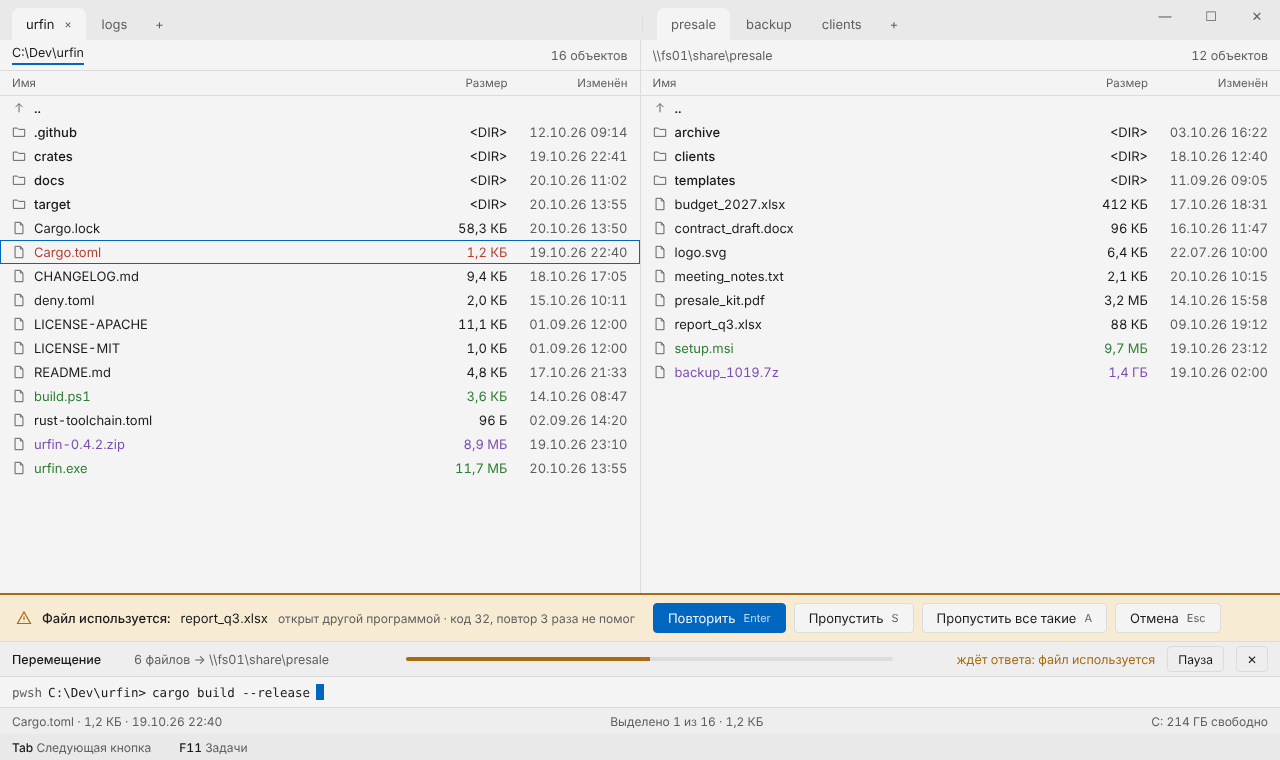
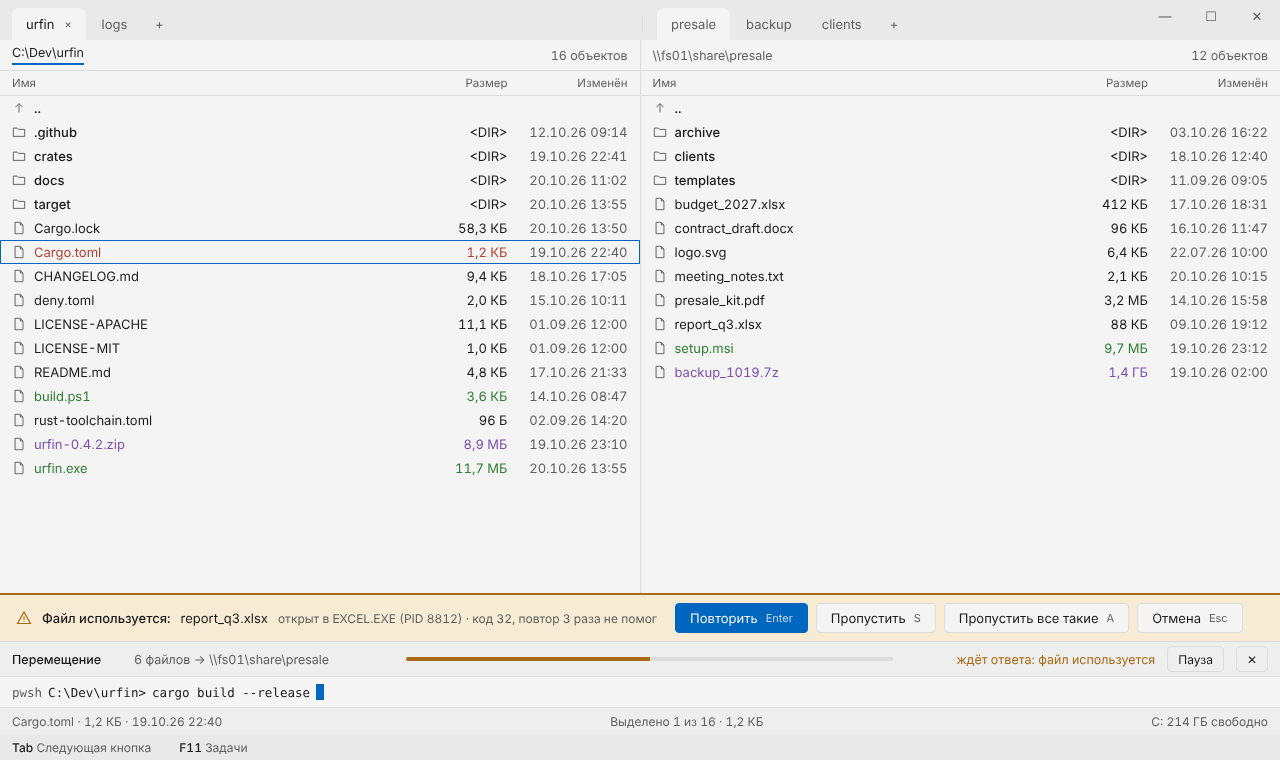
docs: decisions 66-69, ADR-0020 org policies; opbusy shows owning process
Claude-Session: https://claude.ai/code/session_013ZpcYnbJMYkHW4aMDDmFTq

Changed region(s): [[0.25, 0.7868, 0.9688, 0.8474]]

diff --git a/docs/design/window.dc.html b/docs/design/window.dc.html
@@ -1999,7 +1999,7 @@ const erVals = erOn || erToastOn ? {
 showJobs: erOn, showToast: false, erOn, erToastOn,
 erTitle: erBusy ? "Файл используется:" : "Нет доступа:",
 erPath: erBusy ? "report_q3.xlsx" : "C:\\Windows\\System32\\config\\SAM",
-erWhy: erBusy ? "открыт другой программой · код 32, повтор 3 раза не помог" : "отказано в доступе · код 5",
+erWhy: erBusy ? "открыт в EXCEL.EXE (PID 8812) · код 32, повтор 3 раза не помог" : "отказано в доступе · код 5",
 erAll: true,
 erLine: "position: absolute; left: 0; right: 0; bottom: 0; z-index: 3; height: 48px; box-sizing: border-box; padding: 0 16px; display: flex; align-items: center; gap: 10px; background: " + t.wbg + "; border-top: 2px solid " + t.rem + "; --bg: " + t.wbg + "; --fl: color-mix(in srgb, " + t.rem + " 22%, " + t.wbg + "); animation: urfinFlash 1.4s ease-in-out 0.3s 1",
 jobs: erOn ? [erBusy

diff --git a/docs/design/DESIGN.md b/docs/design/DESIGN.md
@@ -96,13 +96,13 @@
 | `screen-whatsnew.png` | После обновления (локальное сравнение версий, без сети): тот же баннер — «Урфин обновлён до X · с Y · N изменений», «Что нового» (раздел справки) / Закрыть; появление — та же вспышка | D-02 / S9 |
 | `screen-settings-viewer.png`, `screen-settings-terminal.png` | Разделы настроек «Просмотр» (`[viewer]`, S7 §8) и «Терминал» (`[term]`, S6 §8, №52) — общий `form`: подпись 240, контрол, пояснение справа; только ключи из спек | D-08 |
 | `screen-settings-ops.png` | «Операции» (S5 §6.2): удаление, копирование и перенос (конфликт, папка есть, ошибки, проверка, облако), параллельность по устройствам, надёжность и журналы; параметр, заданный политикой, — замок, контрол недоступен, «Задано политикой организации» | D-08 / S5 |
-| `screen-settings-policies.png` | «Политики» — только чтение: пояснение сверху, таблица Параметр / Значение / Источник (`HKLM\Software\Policies\Aahz\Urfin`), заданные — с замком, незаданные — «не задано» `secondary`. В спеке сейчас только `Theme`/`ThemeLocked`; остальные политики — предложение (ADR) | D-08 |
-| `screen-operror.png`, `screen-opbusy.png` | Ошибка операции (S5 §2.2): строка-предупреждение (фон `warning_bg`, черта `context_remote`, вспышка) — «Нет доступа: путь» / «Файл используется: имя» + причина и код `secondary`; Повторить (Enter) / Пропустить (S) / Пропустить все такие (A) / Отмена — сразу за текстом; job-бар «ждёт ответа»; повышения прав в операциях нет | D-04 / S5 |
+| `screen-settings-policies.png` | «Политики» — только чтение: пояснение сверху, таблица Параметр / Значение / Источник (`HKLM\Software\Policies\Aahz\Urfin`), заданные — с замком, незаданные — «не задано» `secondary`. набор политик — ADR-0020, №66 | D-08 |
+| `screen-operror.png`, `screen-opbusy.png` | Ошибка операции (S5 §2.2): строка-предупреждение (фон `warning_bg`, черта `context_remote`, вспышка) — «Нет доступа: путь» / «Файл используется: имя» + причина и код `secondary` (для занятого файла — процесс-владелец, №69); Повторить (Enter) / Пропустить (S) / Пропустить все такие (A) / Отмена — сразу за текстом; job-бар «ждёт ответа»; повышения прав в операциях нет | D-04 / S5 |
 | `screen-toasterror.png` | Пассивный тост об ошибке (без кнопок): значок и заголовок `modified`, «N из M не скопированы · подробности — F11»; свёрнутый job-бар с отметкой ошибки | D-02 / S5 |
-| `screen-tabsmany.png` | Много табов: одинаковая ширина (мин. 84) с многоточием, активный всегда виден; одноимённые — «имя · родитель»; переполнение — «› N», «мешочек» со списком скрытых (номер, имя, путь). **Предложение**: S2-13 требует стрелки прокрутки | D-02 |
+| `screen-tabsmany.png` | Много табов: одинаковая ширина (мин. 84) с многоточием, активный всегда виден; одноимённые — «имя · родитель»; переполнение — «› N», «мешочек» со списком скрытых (номер, имя, путь). утверждено №67 (вместо стрелок S2-13) | D-02 |
 | `screen-tabsdrag.png` | Перетаскивание таба: поднят (−4, тень), остальные раздвинуты, место вставки — черта 2×24 `accent`; только перестановка (перенос между панелями в спеке нет) | D-02 |
 | `screen-kit.png`, `kit-dark.png` | Лист компонентов для кода: кнопки, поля, флажки/сегменты/переключатель, чипы, строки списка во всех состояниях, табы, «мешочек» и плашка, тост, встроенные строки, баннер, палитра ролей — с именами стилей и токенов | все D |
-| `width-1024-panels.png`, `width-800-panels.png`, `width-1024-copy.png`, `width-800-settings.png` | Узкое окно (минимум 640×400, меньше 720 — одна панель, S2-07): колонки 72/112 на 800, «Изменён» прячется, когда имени < 120; keybar на 800 — F3–F9 слева; статус — средняя зона прячется первой; встроенные строки переносят ряды, кнопки — от левого края; табы сжимаются до 48 с многоточием, активный — нет; настройки — навигация 180 | D-02 |
+| `width-1024-panels.png`, `width-800-panels.png`, `width-1024-copy.png`, `width-800-settings.png` | Узкое окно (минимум 640×400, меньше 720 — одна панель, S2-07): колонки 72/112 на 800, «Изменён» прячется, когда имени < 120; keybar на 800 — F3–F9 слева; статус — средняя зона прячется первой; встроенные строки переносят ряды, кнопки — от левого края; табы сжимаются до 48 с многоточием, активный — нет; настройки — навигация 180 (№68) | D-02 |
 | `theme-hcblack.png`, `theme-hcdesert.png`, `theme-hcblack-copy.png` | Высокая контрастность Windows (включается автоматически, в списке тем не показывается): только системные цвета, один фон; области различаются рамками WindowText; отмеченные — Highlight/HighlightText; курсор — рамка 2 Highlight; типы файлов — иконкой и весом, не цветом; подписи клавиш на кнопках — без прозрачности; значения сверить через `GetSysColor` на стенде | D-01 |
 | `screen-settings-keys.png` | Клавиатура: пресет Urfin/Far/DN, поиск по команде или клавише; таблица Команда / Клавиши (клавиши — плашки с нижней границей 2) / Где; захват сочетания — рамка `accent` «Нажмите сочетание… Esc — отмена», строка `current_line`; конфликт — строка `header` и пояснение `context_remote` под командой; в статусе — файл keymap и число конфликтов | G-03 / G-05 |
 

diff --git a/docs/specs/S0-decisions.md b/docs/specs/S0-decisions.md
@@ -88,6 +88,10 @@
 | 63 | Зона событий — внизу | (владелец, 2026-10-21) Верх окна — только навигация (табы, пути). Всё событийное — внизу одной зоной над командной строкой: встроенные строки-вопросы (F5, F8, конфликт, отметка, поиск, переименование) накрывают низ панелей; баннеры (вопросы системы, напр. журнал «Прервано…») — такая же строка, но сдвигает панели до ответа, по одному, с счётчиком «ещё N»; job-бар — над командной строкой; **тосты — справа снизу**, над этой зоной (меняет положение из №51, остальное в №51 в силе) |
 | 64 | Перетаскивание файлов мышью | (владелец, 2026-10-21) Действие по умолчанию — как в Windows: на другой том — копировать, на тот же — перенести; Shift — перенести, Ctrl — копировать, Alt — ярлык. Цель — панель (рамка `accent`) или папка (её строка). Снимки `docs/design/screens/screen-drag*.png`. |
 | 65 | Всплывающие объекты — с тенью | (владелец, 2026-10-21) «Мешочки», контекстное меню, плашки (колонки), призрак перетаскивания — с тенью (роль `shadow`); в высокой контрастности теней нет. Плашка без корешка, если её нечем привязать к якорю. |
+| 66 | Политики организации для операций | (владелец, 2026-10-21) К `Theme`/`ThemeLocked` добавляются `DeleteToTrash`, `ExperimentalFastTrash`, `Verify` в `HKLM\Software\Policies\Aahz\Urfin` — ADR-0020. Заданное политикой — с замком; раздел «Политики» — только чтение. Издатель в технических идентификаторах — Aahz, в текстах для человека — Антон Антропов. |
+| 67 | Переполнение табов | (владелец, 2026-10-21) Вместо стрелок прокрутки (S2-13): табы сжимаются до минимальной ширины с многоточием, дальше — кнопка «› N» с «мешочком» скрытых табов; активный всегда виден. Одноимённые папки — «имя · родитель». Снимки `screen-tabsmany.png`, `screen-tabsdrag.png`. |
+| 68 | Узкое окно | (владелец, 2026-10-21) Минимум 640×400 (S2-07). На ширине около 800 keybar показывает F3–F9 слева (F1, F2, F10 — через F9); «Изменён» прячется, когда имени остаётся < 120 px; в статус-строке первой прячется средняя зона. Снимки `width-*.png`. |
+| 69 | Кто держит файл | (владелец, 2026-10-21) При «Файл используется» показывать процесс-владелец (Restart Manager `RmGetList`, `ops::sys`): «открыт в EXCEL.EXE (PID N)»; для сетевых путей — без имени процесса. |
 | 66 | Курсор и отмеченные (заменяет №31) | (владелец, 2026-10-21) Как в дизайне (`docs/design/DESIGN.md`): курсор — заливка `cursor`, текст `cursor_text`, без рамки; у неактивной панели — та же заливка блёклее (≈50 %); отмеченные — цвет `accent` и полужирный, без заливки и галочки |
 
 ## Изменения задач

diff --git a/docs/adr/0020-org-policies.md b/docs/adr/0020-org-policies.md
@@ -1,0 +1,24 @@
+# ADR-0020: Политики организации для операций
+
+Статус: принято (владелец, 2026-10-21, S0-decisions №66)
+
+## Контекст
+Сейчас политики организации есть только для темы (`Theme`, `ThemeLocked`, T-01-5). Администраторам нужно также закреплять параметры операций — удаление в корзину и проверку после записи; экспериментальную «быструю корзину» — запрещать.
+
+## Решение
+Ключ `HKLM\Software\Policies\Aahz\Urfin` (идентификатор издателя — Aahz, №66 дизайна), читается при старте, только чтение:
+
+| Значение | Тип | Смысл |
+|---|---|---|
+| `Theme` | REG_SZ | тема (уже есть) |
+| `ThemeLocked` | DWORD | 1 — смена темы недоступна (уже есть) |
+| `DeleteToTrash` | DWORD | 1 — F8 всегда в Корзину, безвозвратное удаление (Shift) недоступно; 0 — по настройке пользователя |
+| `ExperimentalFastTrash` | DWORD | 0 — «быстрая корзина» запрещена |
+| `Verify` | REG_SZ | `none` / `size` / `hash` — минимальная проверка после записи |
+
+Отсутствующее значение = «не задано», действует настройка пользователя. Заданный политикой параметр в настройках показан с замком и недоступен; раздел «Политики» — только чтение (`docs/design/screens/screen-settings-policies.png`, `screen-settings-ops.png`).
+
+## Последствия
+- `ops` получает `PolicySet` (чтение реестра — в `ops::sys`), конфиг пользователя накладывается поверх.
+- Новые строки UI — через urfin-i18n.
+- Ручная проверка: задать значения в реестре, проверить замки и поведение F8/Shift+F8.
